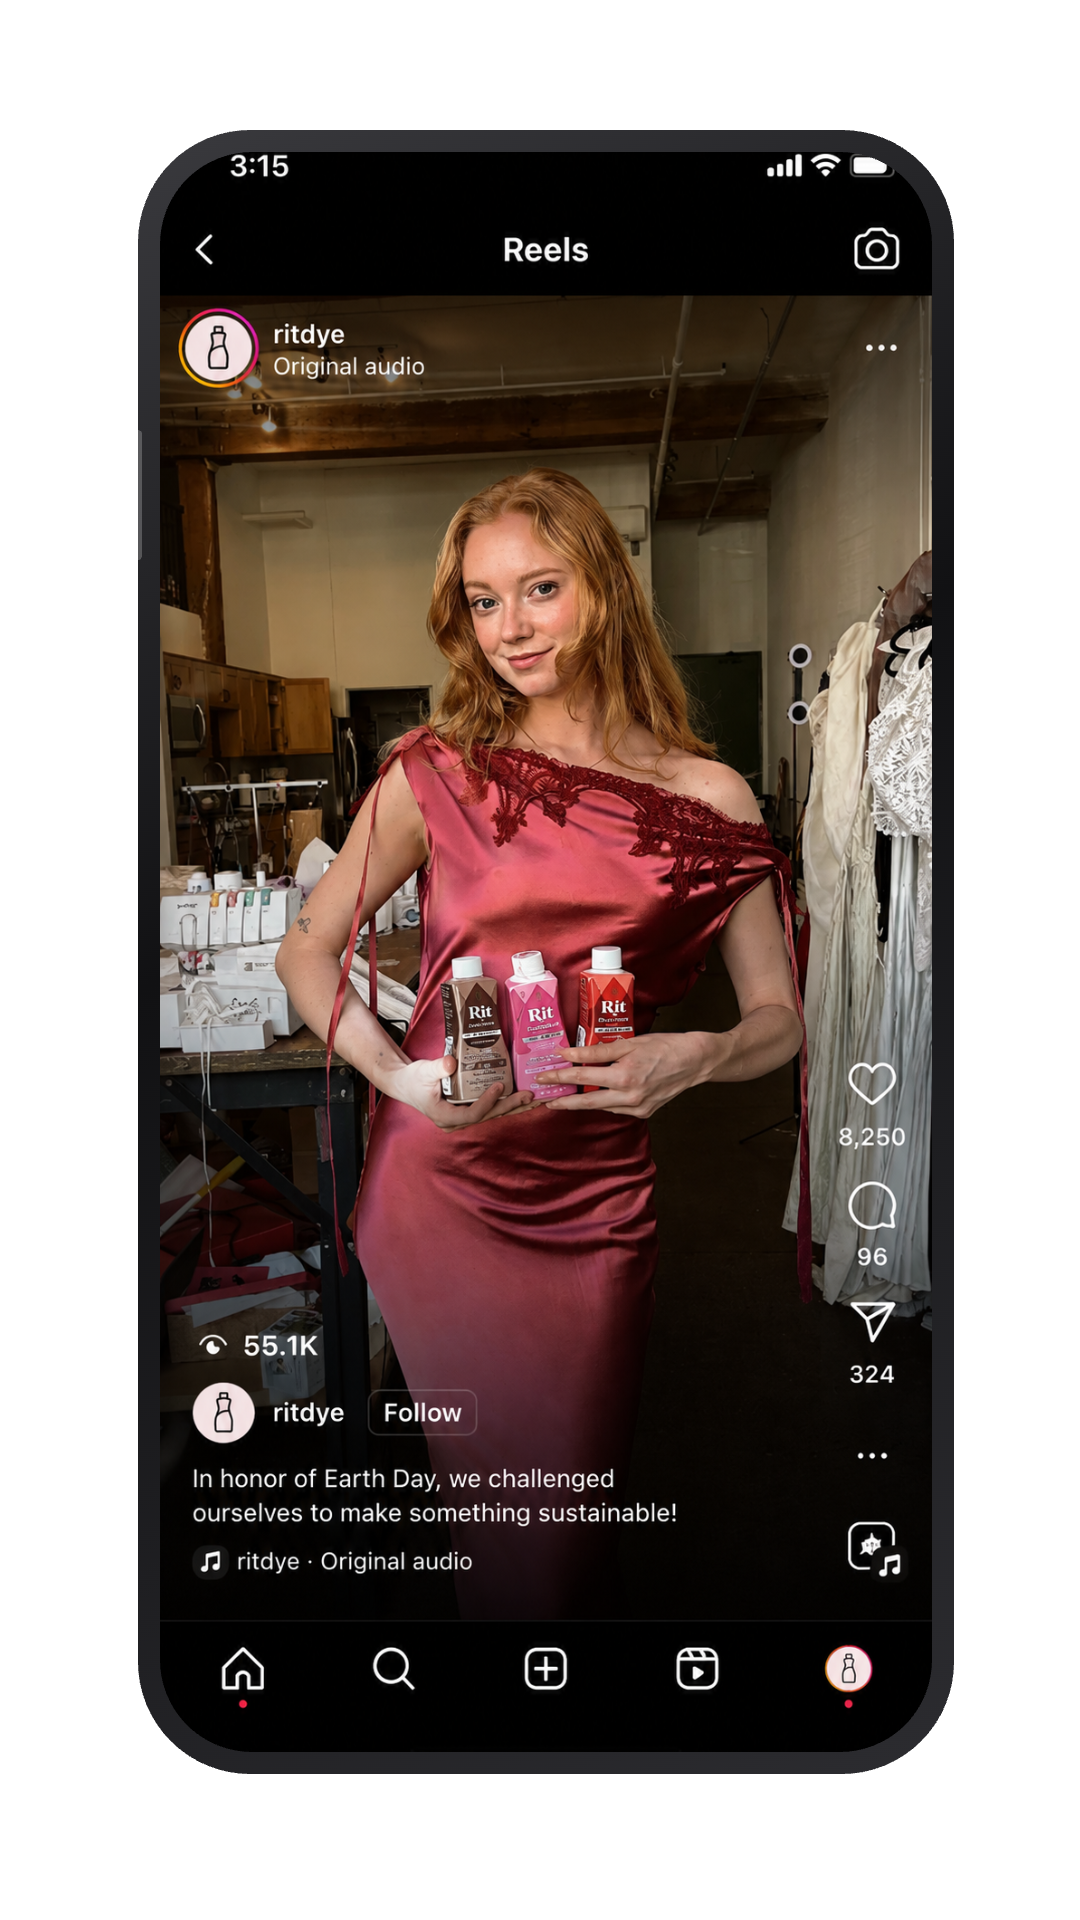
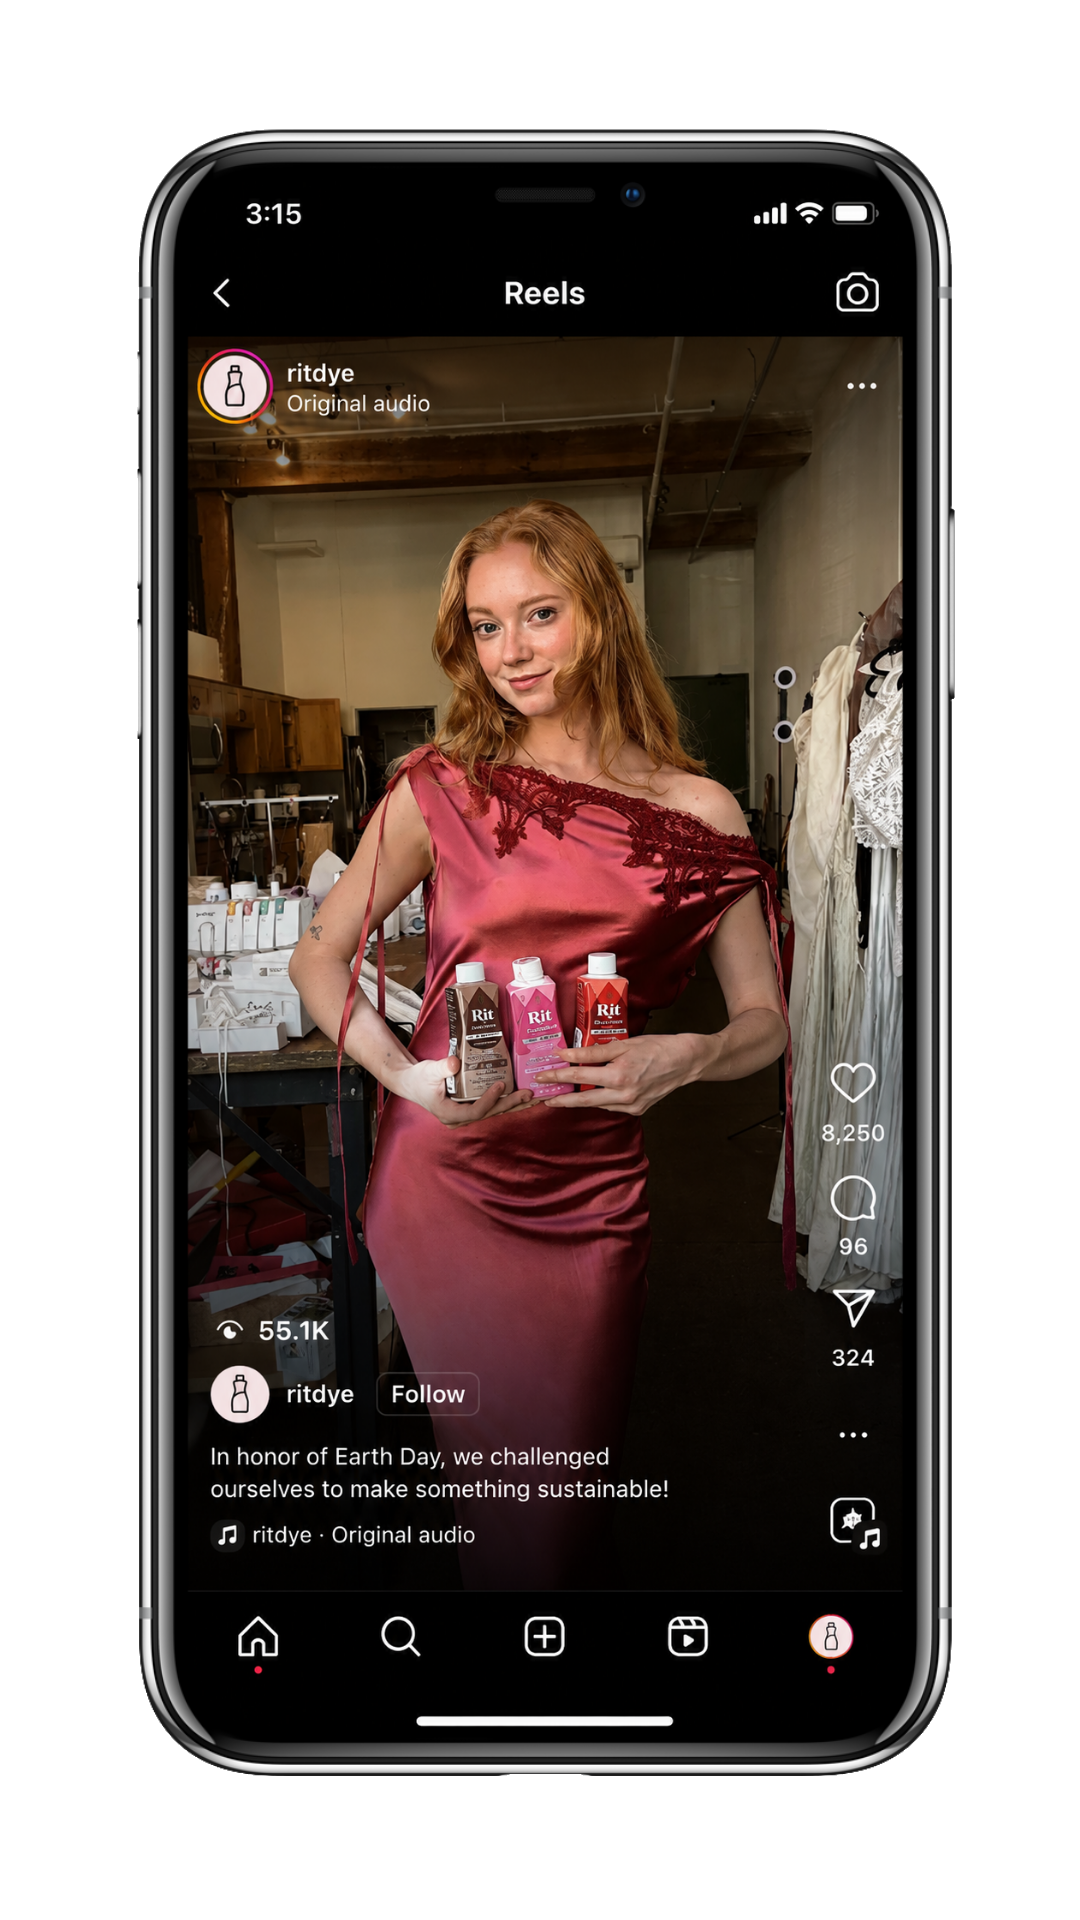
Add files via upload

Changed region(s): [[0.1222, 0.0625, 0.8861, 0.9375], [0.7333, 0.2188, 0.7639, 0.25]]

diff --git a/css/services.css b/css/services.css
@@ -99,10 +99,10 @@ section[id], .svc-item[id] { scroll-margin-top: 140px; }
     .ugc-swash { mix-blend-mode:screen; }
     .approach-label { font:600 10px/1 'Sora',sans-serif; letter-spacing:0.18em; text-transform:uppercase; color:rgba(244,240,236,0.55); margin:0 0 16px; padding-top:36px; border-top:1px solid rgba(244,240,236,0.08); }
     .approach-label:first-child { padding-top:0; border-top:none; }
-    .car-stage { position:relative; width:100%; height:430px; overflow:hidden; cursor:grab; }
+    .car-stage { position:relative; width:100%; height:clamp(430px, 175vw, 660px); overflow:hidden; cursor:grab; }
     .car-stage:active { cursor:grabbing; }
     /* artwork supplies its own phone bezel */
-    .car-card-abs { position:absolute; left:50%; top:50%; width:222px; height:395px; border-radius:0; overflow:visible; padding:0; background:none; box-shadow:none; filter:drop-shadow(0 14px 30px rgba(0,0,0,0.55)); will-change:transform,opacity,filter; transition:transform 0.7s cubic-bezier(0.4,0,0.2,1), opacity 0.7s ease, filter 0.7s ease; }
+    .car-card-abs { position:absolute; left:50%; top:50%; width:min(348px, 74vw); height:auto; aspect-ratio:1080 / 1920; border-radius:0; overflow:visible; padding:0; background:none; box-shadow:none; filter:drop-shadow(0 14px 30px rgba(0,0,0,0.55)); will-change:transform,opacity,filter; transition:transform 0.7s cubic-bezier(0.4,0,0.2,1), opacity 0.7s ease, filter 0.7s ease; }
     .car-card-abs > image-slot, .car-card-abs > img { display:block; width:100%; height:100%; object-fit:contain; border-radius:0; background:none; box-shadow:none; }
     .car-card-abs::before, .car-card-abs::after { content:none; }
     .car-card-abs.is-active { box-shadow:none; filter:drop-shadow(0 20px 44px rgba(0,0,0,0.6)) drop-shadow(0 0 2px rgba(200,25,26,0.9)); }
@@ -363,32 +363,11 @@ section[id], .svc-item[id] { scroll-margin-top: 140px; }
 .ugc-head-foot { grid-column: 1; grid-row: 2; }
 .ugc-steps { grid-column: 2; grid-row: 2; }
 
-/* ── Grid guides (toggle: press G, or the ⊞ button) ── */
-body.grid-guides .ugc-grow-main > * { outline: 1px dashed rgba(0,229,255,0.55); outline-offset: -1px; }
-body.grid-guides .ugc-steps > * { outline: 1px dashed rgba(255,0,200,0.45); outline-offset: -1px; }
-.ugc-steps, .ugc-banner-mid { position: relative; }
-body.grid-guides .ugc-steps::before {
-  content: ''; position: absolute; inset: 0; pointer-events: none; z-index: 1;
-  background: repeating-linear-gradient(to right, rgba(255,0,200,0.55) 0 1px, transparent 1px 10%);
+/* keep the headline inside its 24% cell at every width */
+.ugc-head > div:first-child { overflow-wrap: break-word; }
+@media (min-width: 1101px) {
+  .ugc-head { container-type: inline-size; padding-left: 16px !important; padding-right: 14px !important; }
+  /* type scales off the cell itself, so the longest word always fills it */
+  .ugc-head > div:first-child { font-size: min(18.6cqw, 120px) !important; }
+  .ugc-head > img { width: 78% !important; max-width: none !important; }
 }
-body.grid-guides .ugc-band-wrap::after {
-  content: ''; position: absolute; inset: 28px 10px 0 0; pointer-events: none;
-  background: repeating-linear-gradient(to right, rgba(255,255,0,0.5) 0 1px, transparent 1px 20%);
-}
-body.grid-guides .ugc-banner { outline: 1px dashed rgba(0,229,255,0.55); outline-offset: -1px; }
-body.grid-guides .ugc-banner > * { outline: 1px dashed rgba(0,255,140,0.5); outline-offset: -1px; }
-body.grid-guides .ugc-banner-mid::before {
-  content: ''; position: absolute; inset: 0; pointer-events: none;
-  background: repeating-linear-gradient(to right, rgba(0,255,140,0.45) 0 1px, transparent 1px 10%);
-}
-#grid-guide-btn {
-  position: fixed; right: 16px; bottom: 16px; z-index: 9999;
-  width: 38px; height: 38px; border-radius: 50%; cursor: pointer;
-  border: 1px solid rgba(244,240,236,0.18); background: rgba(12,11,11,0.85);
-  color: rgba(244,240,236,0.55); font: 600 15px/1 'Sora', sans-serif;
-  display: flex; align-items: center; justify-content: center;
-  backdrop-filter: blur(6px); transition: color 0.2s, border-color 0.2s;
-}
-#grid-guide-btn:hover { color: #F4F0EC; border-color: rgba(244,240,236,0.4); }
-body.grid-guides #grid-guide-btn { color: #C8191A; border-color: #C8191A; }
-@media print { #grid-guide-btn { display: none; } }

diff --git a/js/ab.js b/js/ab.js
@@ -1,0 +1,73 @@
+/* ==========================================================================
+   R&R Media — A/B homepage test
+   · index.html  = variant A
+   · index2.html = variant B
+   Assignment is sticky (localStorage) so a returning visitor keeps their
+   variant. A small pill in the corner lets the team force either side.
+   Delete this file + its <script> tag to ship a single homepage.
+   ========================================================================== */
+(function () {
+  'use strict';
+
+  var KEY = 'rr-ab-home';
+  var PAGES = { a: 'index.html', b: 'index2.html' };
+  var here = (location.pathname.split('/').pop() || 'index.html').toLowerCase();
+  var mine = here === 'index2.html' ? 'b' : 'a';
+
+  var forced = new URLSearchParams(location.search).get('v');
+  if (forced === 'a' || forced === 'b') {
+    localStorage.setItem(KEY, forced);
+    if (forced !== mine) { location.replace(PAGES[forced]); return; }
+  }
+
+  var assigned = localStorage.getItem(KEY);
+  if (assigned !== 'a' && assigned !== 'b') {
+    assigned = Math.random() < 0.5 ? 'a' : 'b';
+    localStorage.setItem(KEY, assigned);
+  }
+  /* enforce on every load, not just first assignment, so both URLs stay in bucket */
+  if (assigned !== mine) { location.replace(PAGES[assigned]); return; }
+
+  document.documentElement.setAttribute('data-ab-variant', mine);
+
+  function go(v) {
+    localStorage.setItem(KEY, v);
+    if (v !== mine) location.href = PAGES[v];
+  }
+
+  function mount() {
+    if (document.getElementById('ab-switch')) return;
+    var wrap = document.createElement('div');
+    wrap.id = 'ab-switch';
+    wrap.innerHTML =
+      '<span>Variant</span>' +
+      '<button type="button" data-v="a"' + (mine === 'a' ? ' class="on"' : '') + '>A</button>' +
+      '<button type="button" data-v="b"' + (mine === 'b' ? ' class="on"' : '') + '>B</button>';
+    wrap.addEventListener('click', function (e) {
+      var v = e.target && e.target.getAttribute('data-v');
+      if (v) go(v);
+    });
+    document.body.appendChild(wrap);
+
+    var css = document.createElement('style');
+    css.textContent =
+      '#ab-switch{position:fixed;left:16px;bottom:16px;z-index:9999;display:flex;align-items:center;gap:6px;' +
+      'padding:6px 8px 6px 12px;border-radius:999px;border:1px solid rgba(244,240,236,0.16);' +
+      'background:rgba(12,11,11,0.86);backdrop-filter:blur(6px);}' +
+      "#ab-switch span{font:500 8px/1 'Sora',sans-serif;letter-spacing:0.18em;text-transform:uppercase;" +
+      'color:rgba(244,240,236,0.42);margin-right:2px;}' +
+      "#ab-switch button{font:600 11px/1 'Sora',sans-serif;letter-spacing:0.08em;color:rgba(244,240,236,0.55);" +
+      'background:none;border:1px solid rgba(244,240,236,0.16);border-radius:999px;width:26px;height:24px;cursor:pointer;' +
+      'transition:color .2s,border-color .2s,background .2s;}' +
+      '#ab-switch button:hover{color:#F4F0EC;border-color:rgba(244,240,236,0.4);}' +
+      '#ab-switch button.on{color:#F4F0EC;background:#C8191A;border-color:#C8191A;}' +
+      '@media print{#ab-switch{display:none;}}';
+    document.head.appendChild(css);
+  }
+
+  if (document.readyState === 'loading') {
+    document.addEventListener('DOMContentLoaded', mount);
+  } else {
+    mount();
+  }
+})();

diff --git a/css/home2.css b/css/home2.css
@@ -1,0 +1,75 @@
+/* ==========================================================================
+   R&R Media — home page, VARIANT B overrides
+   Loads after home.css. Content is identical to variant A; only the
+   presentation changes, so the A/B test measures layout, not copy.
+   ========================================================================== */
+
+/* ── Hero: left-aligned editorial split instead of centered stack ───────── */
+#home {
+  min-height: calc(100vh - 160px);
+  padding: 120px 60px 52px;
+}
+.hero-grid { text-align: left; }
+.hero-eyebrow {
+  display: inline-flex; align-items: center; gap: 12px;
+  margin-bottom: 22px; color: #C8191A;
+}
+.hero-eyebrow::before {
+  content: ''; width: 44px; height: 1px; background: #C8191A;
+}
+.rr-h1 { font-size: clamp(44px, 6.4vw, 118px); letter-spacing: -0.035em; }
+.rr-italic { font-size: clamp(26px, 3.4vw, 66px); color: rgba(244,240,236,0.45); }
+
+/* answer row becomes a two-column statement block */
+.rr-ansrow {
+  margin-top: 52px; padding-top: 30px;
+  display: grid; grid-template-columns: minmax(0, 1fr) auto;
+  align-items: end; gap: 32px;
+}
+.rr-ansrow .ans-copy {
+  display: grid; grid-template-columns: minmax(0, 1fr);
+  gap: 10px; align-items: start;
+}
+.hero-statement {
+  font: 300 clamp(34px, 5vw, 92px)/1.14 'Sora', sans-serif;
+  text-transform: uppercase; letter-spacing: 0.005em; color: #F4F0EC;
+}
+.ans-hi { color: #C8191A; }
+.ans-lede { font-size: 34px; line-height: 1.05; }
+.ans-sub { font-size: 17px; max-width: 520px; }
+
+/* ── Selected Work: two-up editorial rows, larger imagery ──────────────── */
+.rr-wgrid {
+  grid-template-columns: repeat(3, 1fr);
+  grid-auto-rows: 1fr;
+  gap: 0 1px;
+  background: rgba(244,240,236,0.07);
+}
+.rr-wgrid > .work-card {
+  background: #080707;
+  padding: 0 26px 44px;
+}
+.work-card > div:first-child, .work-card img { border-radius: 2px; }
+.work-meta { margin-top: 20px; }
+.work-kicker { font-size: 21px; letter-spacing: 0.1em; }
+.work-name { font-size: 24px; }
+.work-stats { font-size: 14px; }
+
+/* B stays 3-up wherever A goes 2-up, so A's row-2 stagger must not apply */
+@media (min-width: 768px) and (max-width: 1100px) {
+  .rr-wgrid > .work-card:nth-child(n+3) {
+    border-top: none; padding-top: 0; margin-top: 0;
+  }
+}
+
+@media (max-width: 900px) {
+  #home { padding: 116px 24px 44px; }
+  .rr-ansrow { grid-template-columns: 1fr; align-items: start; }
+}
+
+@media (max-width: 767px) {
+  .rr-wgrid { grid-template-columns: 1fr; grid-auto-rows: auto; }
+  .rr-wgrid > .work-card:not(:first-child) {
+    border-top: 1px solid rgba(244,240,236,0.1); padding-top: 36px; margin-top: 36px;
+  }
+}

diff --git a/index2.html b/index2.html
@@ -7,6 +7,7 @@
 <meta name="description" content="R&amp;R Media builds UGC pipelines, manages social presence, casts creators, and runs performance ads for brands that want content people actually watch.">
 <link rel="stylesheet" href="css/styles.css">
 <link rel="stylesheet" href="css/home.css">
+<link rel="stylesheet" href="css/home2.css">
 </head>
 <body>
 
@@ -54,18 +55,17 @@
 <section id="home">
   <div class="hero-grid">
     <div>
-      <div class="hero-eyebrow" data-reveal>The question every brand is asking &mdash;</div>
-      <div class="rr-h1" data-reveal data-d="1">How do you</div>
-      <div class="rr-h1" data-reveal data-d="2">create content</div>
-      <div class="rr-italic" data-reveal data-d="3">people actually</div>
-      <div class="rr-h1" data-reveal data-d="4" style="margin-top:10px;">want to watch?</div>
+      <div class="hero-statement" data-reveal>We translate</div>
+      <div class="hero-statement" data-reveal data-d="1">the vision of your</div>
+      <div class="hero-statement" data-reveal data-d="2">company into the</div>
+      <div class="hero-statement" data-reveal data-d="3"><span class="ans-hi">language</span> of the <span class="ans-hi">internet.</span></div>
     </div>
   </div>
 
   <div class="rr-ansrow" data-reveal data-d="5">
     <div class="ans-copy">
       <span class="ans-lede">Make it belong.</span>
-      <span class="ans-sub">We translate the vision of your company into the language of the internet.</span>
+      <span class="ans-sub">Content people actually want to watch &mdash; built, cast, and managed end to end.</span>
     </div>
     <a href="#contact" class="btn-red">Let us help you →</a>
   </div>

diff --git a/js/services.js b/js/services.js
@@ -68,7 +68,7 @@
         var visible = abs <= 3;
         var scale = visible ? 1 - abs * 0.15 : 0.55;
 
-        card.style.transform = 'translate(-50%,-50%) translateX(' + (offset * 156) + 'px) translateY(' + (abs * 11) + 'px) scale(' + scale + ')';
+        card.style.transform = 'translate(-50%,-50%) translateX(' + (offset * (cards[0].offsetWidth * 0.56)) + 'px) translateY(' + (abs * 14) + 'px) scale(' + scale + ')';
         card.style.opacity = visible ? Math.max(0, 1 - abs * 0.25) : 0;
         card.style.zIndex = 100 - abs;
         card.style.filter = 'blur(' + (visible ? abs * 1.1 : 5) + 'px)';
@@ -158,31 +158,4 @@
   } else {
     init();
   }
-})();
-
-
-/* ── Grid guides toggle (G key or floating button) ── */
-(function () {
-  var KEY = 'rr-grid-guides';
-  function apply(on) { document.body.classList.toggle('grid-guides', !!on); }
-  apply(localStorage.getItem(KEY) === '1');
-  var btn = document.createElement('button');
-  btn.id = 'grid-guide-btn';
-  btn.type = 'button';
-  btn.title = 'Toggle grid guides (G)';
-  btn.setAttribute('aria-label', 'Toggle grid guides');
-  btn.textContent = '\u229E';
-  function toggle() {
-    var on = !document.body.classList.contains('grid-guides');
-    apply(on);
-    localStorage.setItem(KEY, on ? '1' : '0');
-  }
-  btn.addEventListener('click', toggle);
-  document.body.appendChild(btn);
-  document.addEventListener('keydown', function (e) {
-    if (e.metaKey || e.ctrlKey || e.altKey) return;
-    var t = e.target;
-    if (t && (t.tagName === 'INPUT' || t.tagName === 'TEXTAREA' || t.isContentEditable)) return;
-    if (e.key === 'g' || e.key === 'G') toggle();
-  });
 })();

diff --git a/css/home.css b/css/home.css
@@ -95,10 +95,10 @@
 .work-shot { width: 100%; aspect-ratio: 1/1; display: flex; align-items: center; justify-content: center; overflow: hidden; }
 .work-shot img { display: block; max-width: 100%; max-height: 100%; width: auto; height: auto; object-fit: contain; }
 .work-meta { margin-top: 24px; }
-.work-kicker { font: 500 12.2px/1 'Sora', sans-serif; letter-spacing: 0.2em; text-transform: uppercase; color: #C8191A; margin-bottom: 10px; }
-.work-name { font: 900 22px/1.2 'Archivo Black', sans-serif; color: #F4F0EC; letter-spacing: -0.01em; }
+.work-kicker { font: 600 25px/1.15 'Sora', sans-serif; letter-spacing: 0.12em; text-transform: uppercase; color: #C8191A; margin-bottom: 10px; }
+.work-name { font: 900 19px/1.2 'Archivo Black', sans-serif; color: #F4F0EC; letter-spacing: -0.01em; }
 .work-desc { font: 300 14px/1.5 'Sora', sans-serif; color: rgba(244,240,236,0.72); margin-top: 8px; }
-.work-stats { font: 300 16.7px/1.5 'Sora', sans-serif; color: rgba(244,240,236,0.38); margin-top: 10px; }
+.work-stats { font: 300 13.5px/1.55 'Sora', sans-serif; color: rgba(244,240,236,0.38); margin-top: 10px; }
 
 @media (min-width: 1101px) {
   .rr-wgrid > .work-card:not(:first-child) { border-left: 1px solid rgba(244,240,236,0.1); }

diff --git a/services.html b/services.html
@@ -79,7 +79,7 @@
         <div class="ugc-grow-main">
           <!-- R1C1 -->
           <div class="ugc-head" style="min-width:0;padding:20px 18px 0 20px;border-right:1px solid rgba(244,240,236,0.07);display:flex;flex-direction:column;justify-content:center;">
-            <div style="font:900 clamp(37px,5vw,76px)/0.85 'Archivo Black',sans-serif;color:#F4F0EC;letter-spacing:-0.035em;text-transform:uppercase;">We build<br>the<br>pipeline<span style="color:#C8191A;">.</span><br>You reap<br>the<br>results<span style="color:#C8191A;">.</span></div>
+            <div style="font:900 clamp(37px,5vw,76px)/0.85 'Archivo Black',sans-serif;color:#F4F0EC;letter-spacing:-0.035em;text-transform:uppercase;">We build<br>the<br><span style="white-space:nowrap;">pipeline<span style="color:#C8191A;">.</span></span><br>You reap<br>the<br><span style="white-space:nowrap;">results<span style="color:#C8191A;">.</span></span></div>
             <img src="assets/ugc-swash.png" alt="" style="display:block;width:170px;max-width:72%;margin:8px 0 0;pointer-events:none;">
           </div>
 
